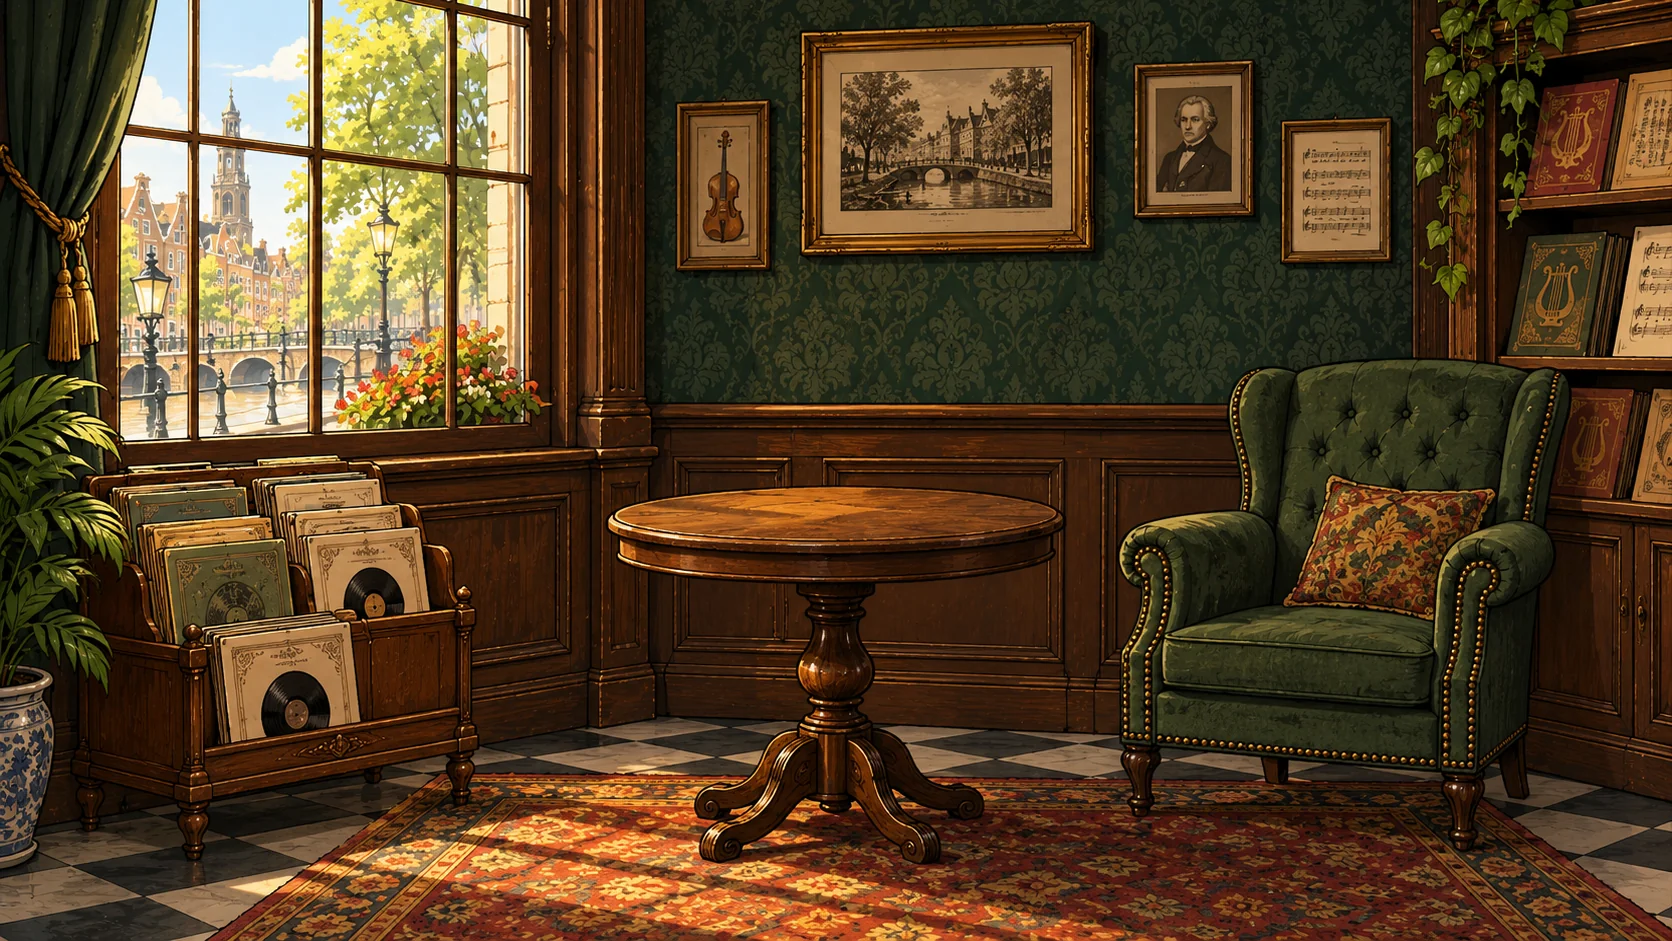
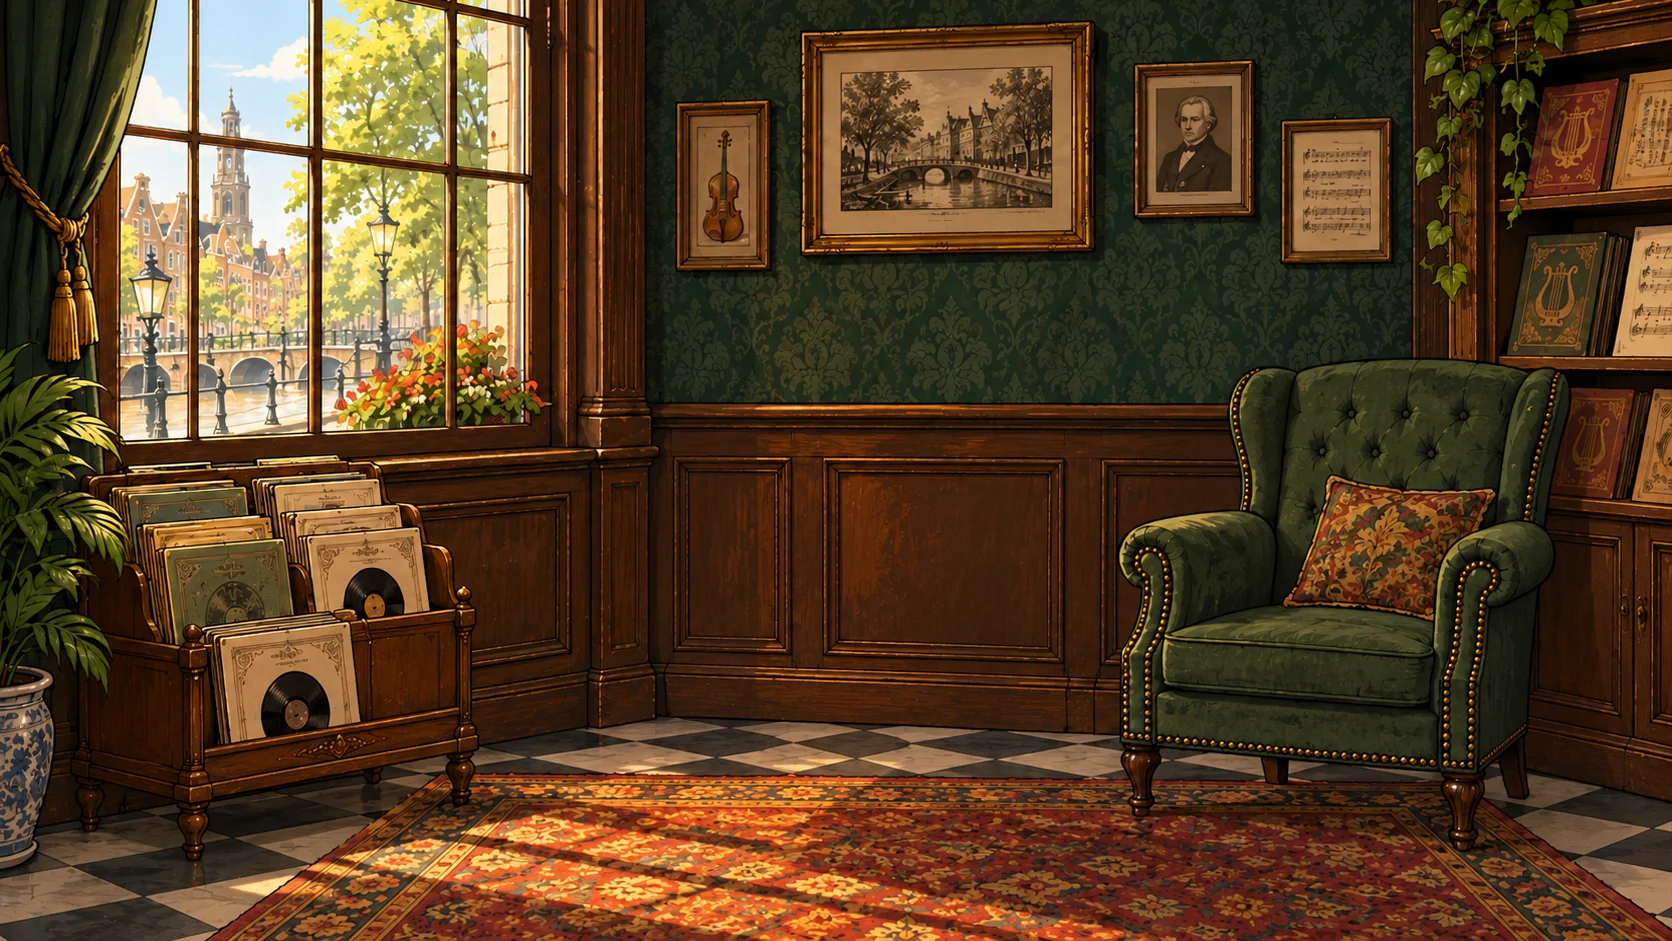
Add phonograph, open cylinder tubes and the listening room without table
- shop/gramophone is now a historically accurate cylinder phonograph
- closeups/gramophone-corner: table removed, room left for the phonograph
- items/cylinder: open tubes and separate lids for all four colours
- Import: follow the close-up images that moved to music_store_internal

diff --git a/scripts/import_art.py b/scripts/import_art.py
@@ -54,14 +54,14 @@ ASSETS = [
     ("music_store_internal/Sleeping Cat on an Ornate Piano.png", "object", "shop/piano", {"max": 1024}),
     ("music_store_internal/Vintage Shop Counter on Magenta.png", "object", "shop/counter", {"max": 1024}),
     ("music_store_internal/Antique Music Cabinet with Sheet Music.png", "object", "shop/cabinet", {"max": 1024}),
-    ("music_store_internal/Antique Gramophone on Ornate Cabinet.png", "object", "shop/gramophone", {"max": 1024}),
+    ("music_store_internal/Antique Gramophone on Wooden Stand.png", "object", "shop/gramophone", {"max": 1024}),
     ("music_store_internal/Ornate Golden Frames on Magenta.png", "sheet", "shop/frames",
      {"max": 768, "dilate": 6, "row": True, "names": ["oval-large", "rect-large", "oval-small", "rect-medium", "rect-small"]}),
     # Close-ups
-    ("past/Antique Piano with Blank Sheet Music.png", "opaque", "closeups/piano", {}),
-    ("past/Antique Wooden Display Cabinet Interior.png", "opaque", "closeups/cabinet", {}),
+    ("music_store_internal/Antique Piano with Blank Sheet Music.png", "opaque", "closeups/piano", {}),
+    ("music_store_internal/Antique Wooden Display Cabinet Interior.png", "opaque", "closeups/cabinet", {}),
     ("music_store_internal/Vintage Green Damask Gallery Wall.png", "opaque", "closeups/gallery-wall", {}),
-    ("past/Edwardian Canal-Side Music Nook.png", "opaque", "closeups/gramophone-corner", {}),
+    ("music_store_internal/Sunlit Vintage Music Room.png", "opaque", "closeups/gramophone-corner", {}),
     # Characters (cut-out puppets; "1" is the part on the left of the sheet)
     ("characters/Vintage Boy Character Sprite Sheet.png", "sheet", "characters/kid-past",
      {"scale": CHAR_SCALE, "names": ["head", "full", *ARM_LEG, "lower-leg-1", "lower-leg-2"]}),
@@ -82,6 +82,10 @@ ASSETS = [
     # Items
     ("music_store_internal/Vintage Phonograph Cylinder Collection.png", "sheet", "items/cylinder",
      {"max": 512, "dilate": 6, "row": True, "names": ["cream", "red", "blue", "green", "open"]}),
+    # The same four tubes opened, with their lids separate (lift the lid off a closed tube, then swap in the open one)
+    ("music_store_internal/Antique Phonograph Cylinder Collection.png", "sheet", "items/cylinder",
+     {"scale": 0.868, "dilate": 6, "names": ["cream-open", "red-open", "blue-open", "green-open",
+                                        "cream-lid", "red-lid", "blue-lid", "green-lid"]}),
     # Sheet music: placeholder covers, and the pieces for the opening animation
     ("details/Vintage Art Nouveau Music Covers.png", "sheet", "items/sheet-music",
      {"max": 512, "dilate": 6, "row": True, "names": ["cover-1", "cover-2", "cover-3", "cover-4", "cover-5", "cover-6"]}),

diff --git a/docs/design/README.md b/docs/design/README.md
@@ -123,11 +123,11 @@ All game-ready images are in [`public/art/`](../../public/art/) as WebP (about 4
 | Folder | Contents |
 |---|---|
 | `past-street/`, `future-street/` | Parallax layers, back to front: `sky`, `far`, `walk` (the quay the player walks on, with the shop on the right), `foreground` (dark silhouettes). Layers are full-width and line up with each other. `future-street/crate` is the box with the cylinders. |
-| `shop/` | `back-wall`, `foreground`, and the clickable objects `piano`, `counter`, `cabinet`, `gramophone` (piano and cabinet seen straight from the front); `frames/` holds the empty golden picture frames. |
-| `closeups/` | Full-screen views: `piano` (empty music stand and keyboard strip, filled by the game), `cabinet` (empty slots), `gallery-wall`, `gramophone-corner`. |
+| `shop/` | `back-wall`, `foreground`, and the clickable objects `piano`, `counter`, `cabinet`, `gramophone` (an Edison-style cylinder phonograph on a stand; all seen straight from the front); `frames/` holds the empty golden picture frames. |
+| `closeups/` | Full-screen views: `piano` (empty music stand and keyboard strip, filled by the game), `cabinet` (empty slots), `gallery-wall`, `gramophone-corner` (listening room with an empty spot on the rug where the game places the phonograph). |
 | `characters/` | `kid-past`, `kid-future` (gas mask), `shopkeeper`: each has `full` plus separate puppet parts (`head`, `torso`, arms, legs). Parts ending in `-1` were on the left of the sheet. `sheetX`/`sheetY` in the manifest give each part's position on the original sheet, as a starting point for putting the puppet together. All characters share one scale. The shopkeeper faces the front and has extra heads to swap in while he talks: `head-smile`, `head-talk`, `head-blink`, `head-surprised`. |
 | `characters/cyclist-man`, `cyclist-woman` | Street NPCs on bicycles, side view facing right (mirror them to ride left). `full` plus `bicycle` (frame without wheels), `wheel-1`/`wheel-2` and `crank` to spin, the rider's body and legs to pedal. |
-| `items/cylinder/` | Phonograph cylinder tubes (`cream`, `red`, `blue`, `green`, `open`). |
+| `items/cylinder/` | Phonograph cylinder tubes, closed: `cream`, `red`, `blue`, `green` (plus `open`, an extra iris tube). For opening a tube: `<colour>-open` (lid off, black cylinder showing) and `<colour>-lid`, at the same scale as the closed tubes. |
 | `items/sheet-music/` | `cover-1` to `cover-6`: placeholder covers with an empty title label (the real title is drawn by the game). `cover-inside`, `page-left`, `page-right` (empty staves) for the opening animation: the cover folds open from the left edge and the two pages show side by side, with the notes drawn on the staves by the game. |
 | `ui/` | Empty `card`, `plaque`, `button`, `paper-strip`; `icons/` with `read`, `music`, `discover`, `collect`, `play`, `back`, `sound`, `close`. |
 | `fx/` | `glow-yellow`, `glow-orange`, `fog`, `rain`, `ash` (light on transparency, works with additive blending), `sheet-music`, `note` (for the time-travel swirl). |
